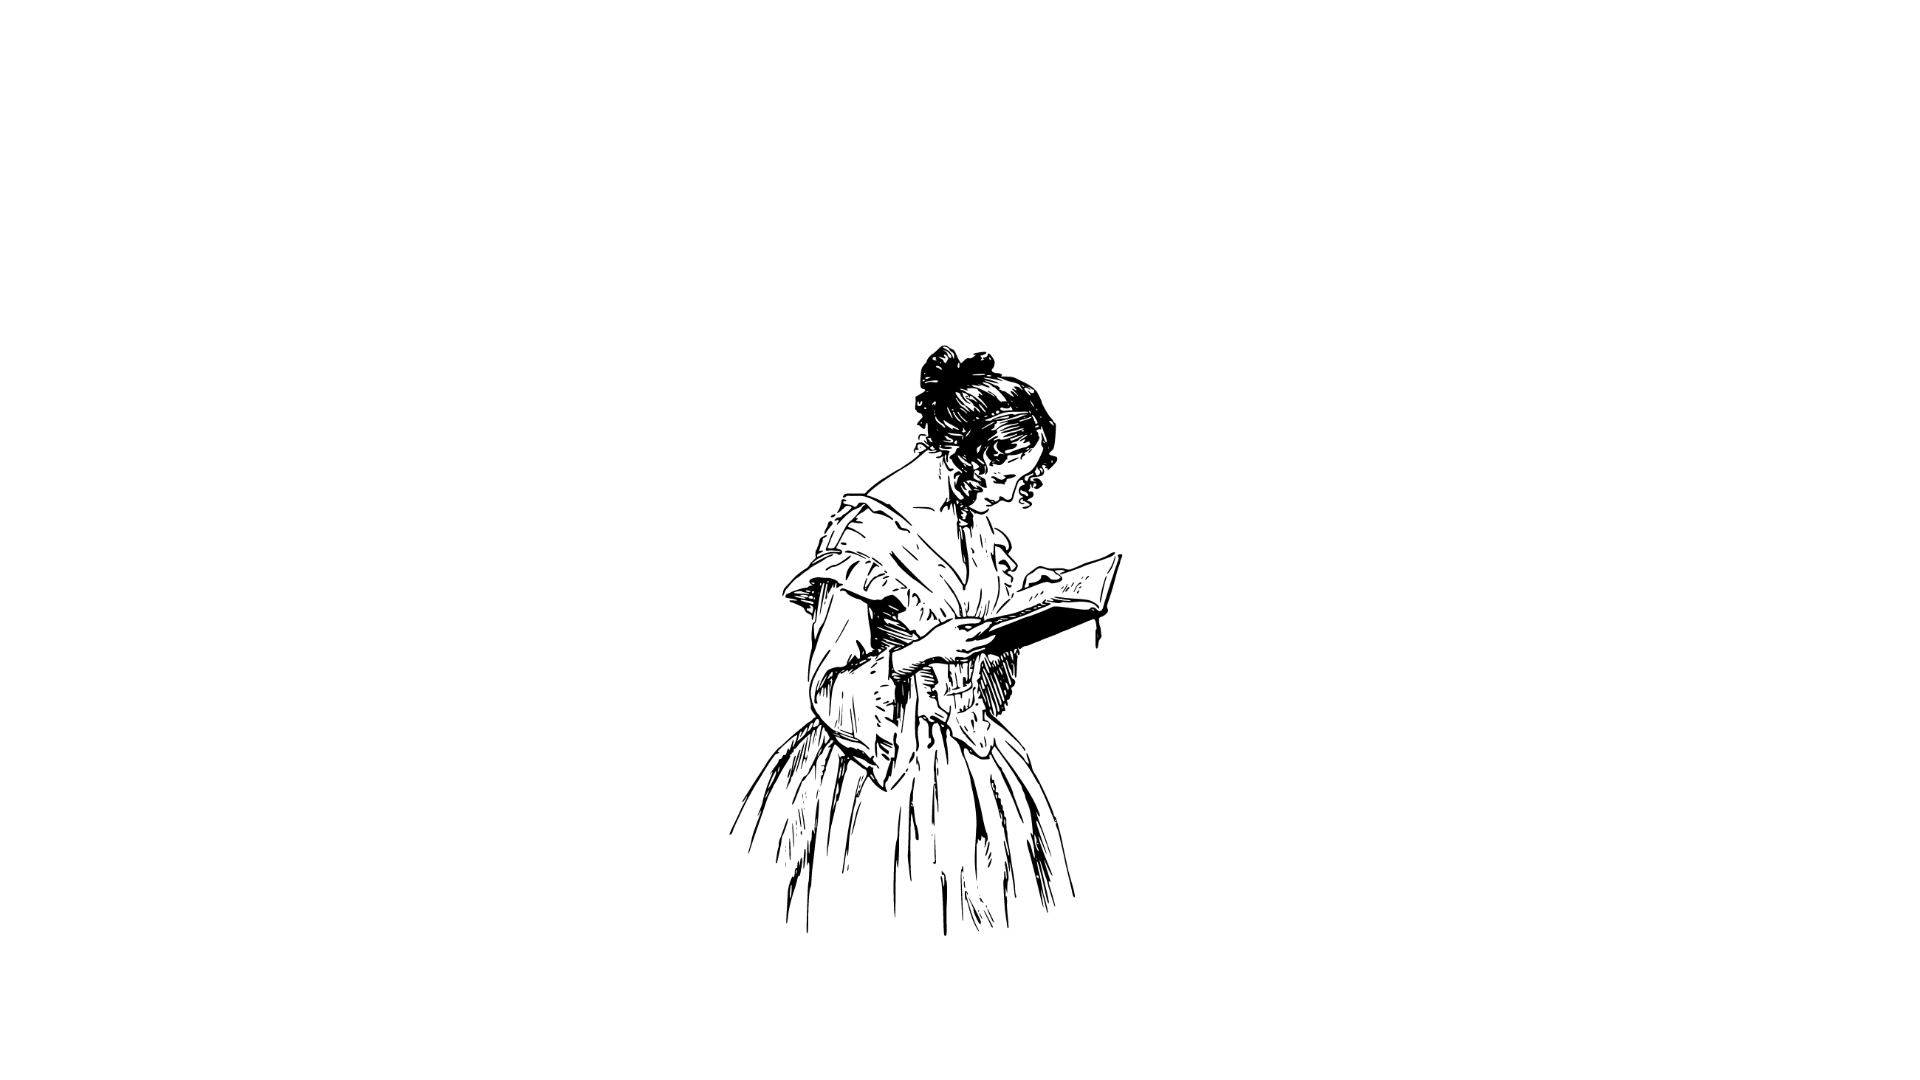
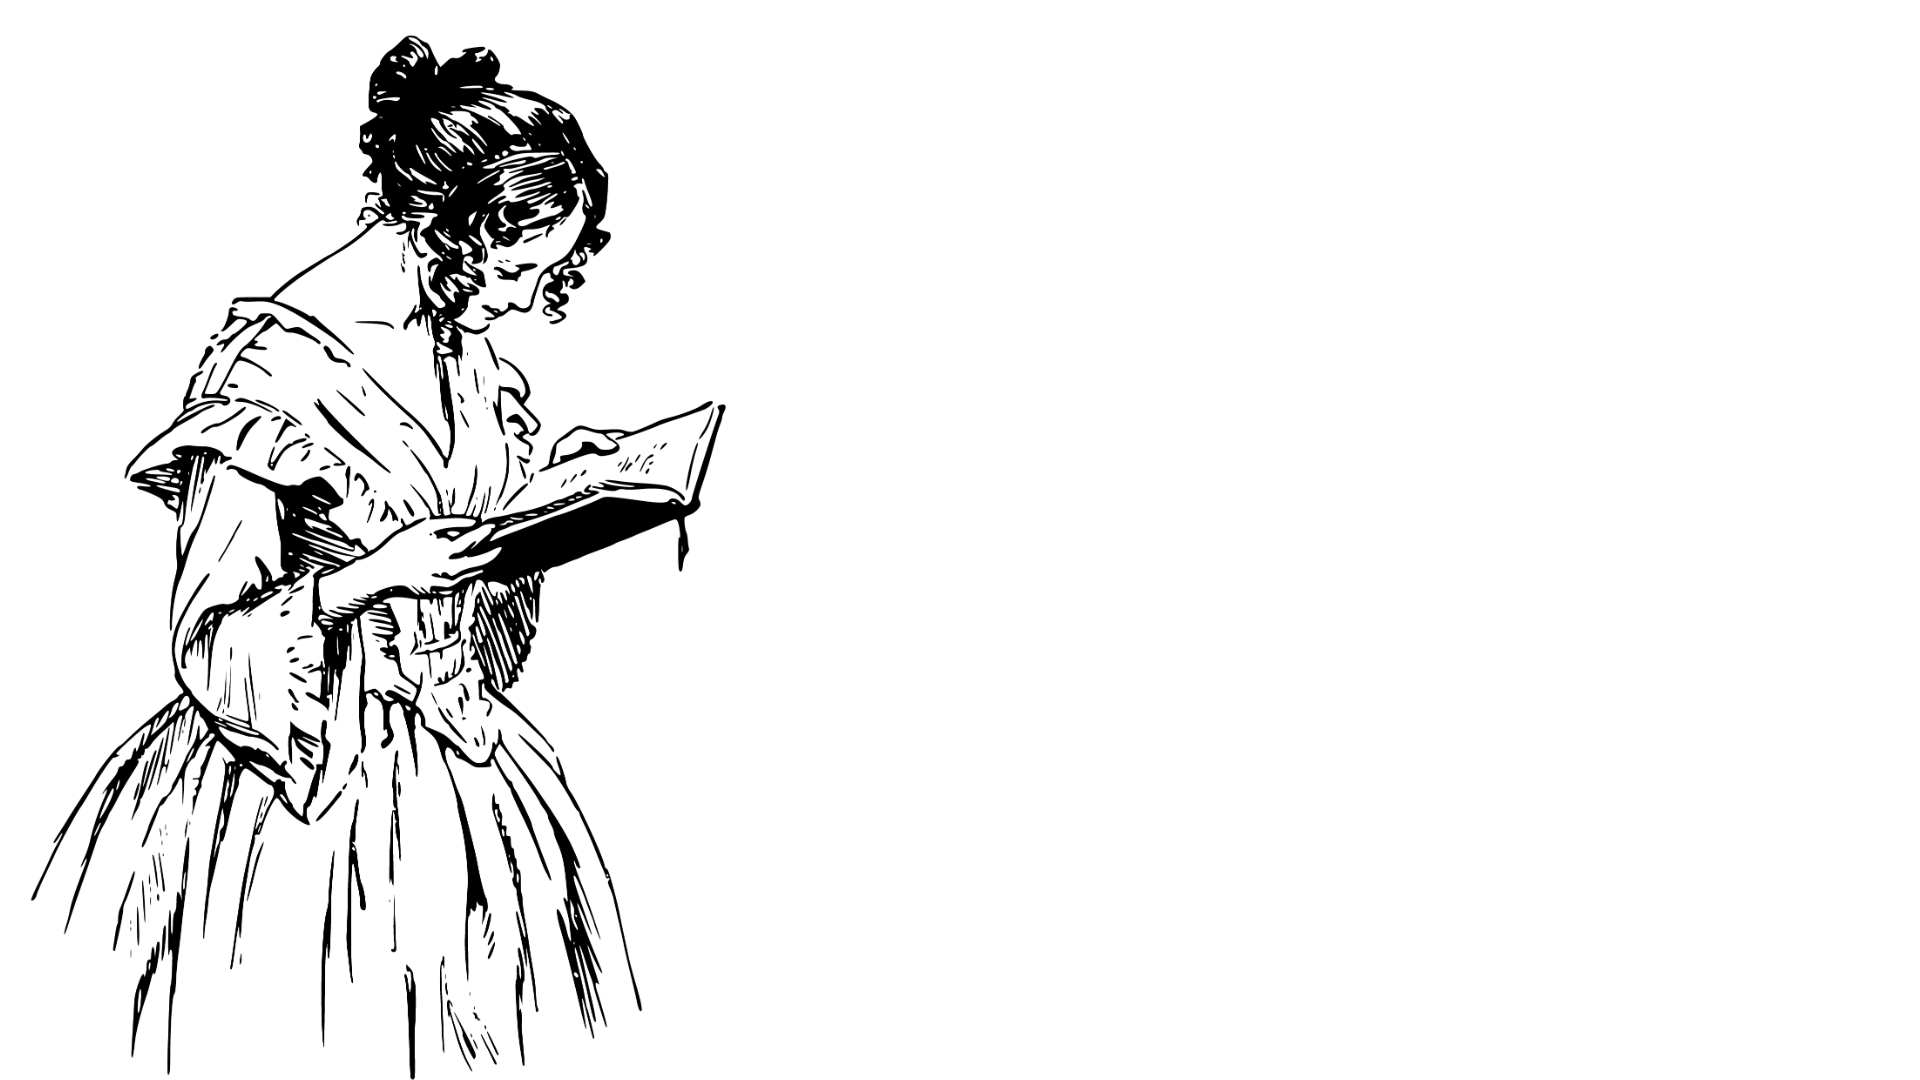
提交

Changed region(s): [[0.0312, 0.0306, 0.375, 1.0], [0.375, 0.3056, 0.5938, 0.8556]]

diff --git a/gameContent/level3/style/game.css b/gameContent/level3/style/game.css
@@ -1,0 +1,30 @@
+html{
+    overflow-y: hidden;
+}
+
+.level3Scr {
+    background-image: url(../../../asset/imgs/ending.png);
+    position: relative;
+    width: 100%;
+    height: 100%;
+    justify-content: center;
+    align-items: center;
+    background-size: 100% 100%;
+}
+
+.woman {
+    width: 36%;
+    height: 35%;   
+    position: absolute;   
+    top: 6%; 
+    left:13%;
+    transition: transform 0.5s ease;
+}
+
+.woman:hover {
+    transform: translateX(25px);
+}
+
+
+
+    

diff --git a/gameContent/level3/src/script.js b/gameContent/level3/src/script.js
@@ -1,0 +1,10 @@
+import {game} from '../../../src/Game.js';
+import * as OuterModule from '../../../src/function.js';
+import * as MyModule from './function.js';
+
+window.addEventListener('DOMContentLoaded',() =>{
+    if (performance.navigation.type == 1) {
+        window.location.href = "../../index.php";
+    }
+    OuterModule.Music();
+})
